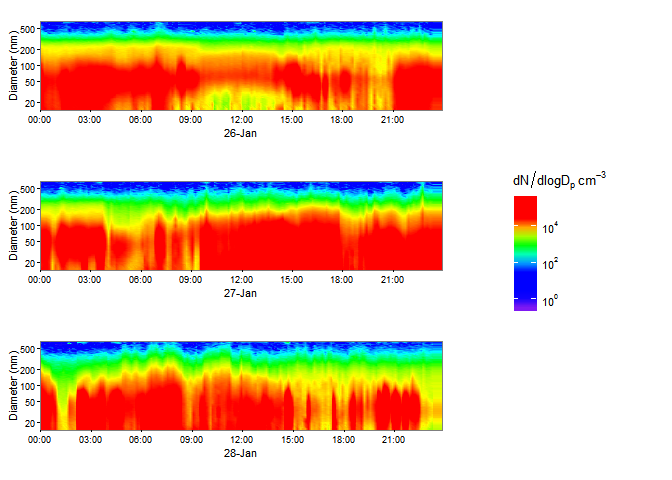
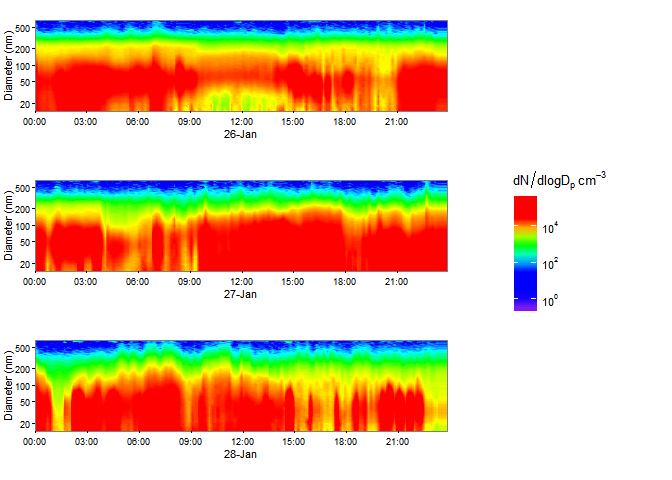
trim margins of figs

diff --git a/README.md b/README.md
@@ -7,7 +7,7 @@ SMPS
 Introduction
 ------------
 
-This package produces time series colour contour plots of data from Scanning Mobility Particle Sizer Spectrometer (SMPS) data. The SMPS is the standard method to measure airborne particle size distributions. The plots that this package produces are widely used for visualising SMPS data in atmospheric science.
+This package produces time series colour contour plots of data from [Scanning Mobility Particle Sizer (SMPS)](https://en.wikipedia.org/wiki/Scanning_mobility_particle_sizer) data. The SMPS is the standard method to measure airborne particle size distributions. The kind of plots that this package produces are widely used for visualising SMPS data in atmospheric science.
 
 How to install the package
 --------------------------
@@ -34,7 +34,7 @@ head(my_data)
 View(my_data)
 ```
 
-Second, prepare the data for plotting using the `prepare_data` function. This converts the variable types and data format into forms suitable for plotting. It also does interpolation of the measured values to give a smooth contour plot. The interpolation can take a minute or two. You can experiment with the interpolation parameters to speed up the operation.
+Second, prepare your data for plotting using the `prepare_data` function. This converts the variable types and data format into forms suitable for plotting. It also does interpolation of the measured values to give a smooth contour plot. The interpolation can take a minute or two. You can experiment with the interpolation parameters to speed up the operation.
 
 ``` r
 # prepare the data
@@ -49,18 +49,21 @@ smps_plot(prepared_data)
 
 ![](figures/README-unnamed-chunk-5-1.png)<!-- -->
 
-We can plot a data from a single day:
-
-``` r
-smps_plot(prepared_data, day = "2013-01-26")
-```
-
-![](figures/README-unnamed-chunk-6-1.png)<!-- -->
-
 We can also have a log scale on the y-axis:
 
 ``` r
 smps_plot(prepared_data, y_axis = "log")
+```
+
+![](figures/README-unnamed-chunk-6-1.png)<!-- -->
+
+We can plot a data from a single day:
+
+``` r
+smps_plot(prepared_data, 
+          day = "2013-01-26", 
+          aspect_ratio = 1/2, 
+          h = '3 hours')
 ```
 
 ![](figures/README-unnamed-chunk-7-1.png)<!-- -->
@@ -107,6 +110,7 @@ the_plots <- lapply(the_days, function(i) smps_plot(prepared_data,
 the_legend <- get_legend(smps_plot(prepared_data, 
                                    day = "2013-01-26", 
                                    font_size = 10))
+
 # arrange the plots and scale
 grid.arrange(the_plots[[1]], 
              the_plots[[2]], 
